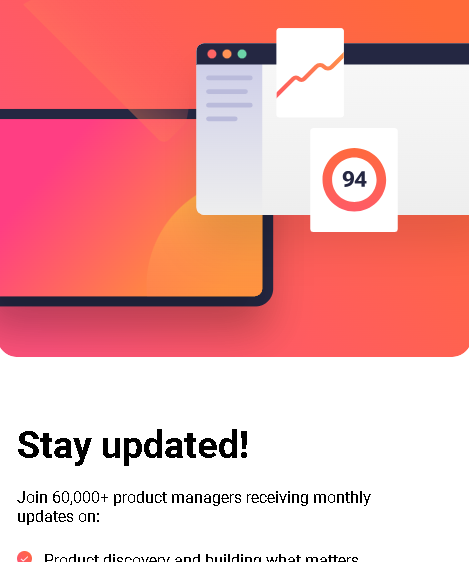
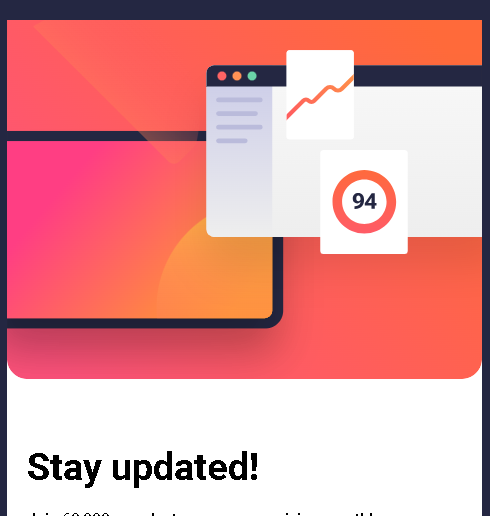
Fixed padding and border radius on cards

diff --git a/style.css b/style.css
@@ -1,4 +1,4 @@
-@import url('https://fonts.googleapis.com/css2?family=Montserrat:wght@300;400;700&display=swap');
+@import url('https://fonts.googleapis.com/css2?family=Montserrat:wght@300;400;500;700&display=swap');
 
 * {
    margin: 0;
@@ -146,7 +146,7 @@ li a:hover {
    align-items: center;
    justify-content: center;
    margin: 20px;
-   color: var(--mid-blue);
+   color: var(--dark-blue);
 }
 
 hr {
@@ -176,8 +176,6 @@ hr {
    background-image: url(images/huddle.png);
    background-size: 100%;
    background-repeat: no-repeat;
-   /* background-size: cover; */
-   /* background-position: right; */
 }
 .base-project {
    width: 400px;
@@ -190,7 +188,6 @@ hr {
    background-image: url(images/base-apprl.png);
    background-size: 100%;
    background-repeat: no-repeat;
-   /* background-position: center; */
 }
 
 .newsletter-project {
@@ -204,7 +201,6 @@ hr {
    background-image: url(images/newsletter.png);
    background-size: cover;
    background-repeat: no-repeat;
-   background-position-y: 0px;
 }
 /* Projects Row Two */
 .fylo-project {
@@ -219,7 +215,6 @@ hr {
    background-size: 100%;
    background-repeat: no-repeat;
    background-size: cover;
-   /* background-position: right; */
 }
 .cc-details-project {
    width: 400px;
@@ -232,7 +227,6 @@ hr {
    background-image: url(images/cc-details.png);
    background-size: cover;
    background-repeat: no-repeat;
-   /* background-position: center; */
 }
 
 .time-tracker-project {
@@ -246,7 +240,6 @@ hr {
    background-image: url(images/time-tracker.png);
    background-size: cover;
    background-repeat: no-repeat;
-   /* background-position-y: 0px; */
 }
 
 /* Row Three */
@@ -262,7 +255,6 @@ hr {
    background-size: 100%;
    background-repeat: no-repeat;
    background-size: cover;
-   /* background-position: right; */
 }
 .four-card-project {
    width: 400px;
@@ -275,7 +267,6 @@ hr {
    background-image: url(images/four-card.png);
    background-size: cover;
    background-repeat: no-repeat;
-   /* background-position: center; */
 }
 
 .clipboard-project {
@@ -294,33 +285,38 @@ hr {
 
 .text-container {
    position: absolute;
-   height: 75px;
+   height: 74px;
    width: 100%;
+   text-align: center;
    z-index: 2;
    left: 0;
    bottom: 0;
-   background-color: #fff;
+   background-color: #ffffff;
    overflow: hidden;
+   border-bottom-right-radius: 5px;
+   border-bottom-left-radius: 5px;
 }
 
 .text-container:hover {
-   height: 250px;
+   height: 270px;
 }
 
 .name {
-   margin: 12px 10px 5px;
-   color: var(--dark-blue);
-   font-size: 2rem;
+   margin: 20px 10px 5px;
+   color: var(--mid-blue);
+   font-size: 1.8rem;
    font-weight: 600;
 }
 
 .content {
-   padding: 5px;
-   color: var(--mid-blue);
+   padding: 10px;
+   color: var(--dark-blue);
+   font-size: 1rem;
+   font-weight: 600;
 }
 
 .button {
-   border: 3px solid var(--blue-text);
+   border: 2px solid var(--dark-blue);
    width: 210px;
    box-shadow: -15px 7px 30px rgba(0, 0, 0, 0.2);
    padding: 15px;
@@ -329,6 +325,11 @@ hr {
    margin: 18px auto;
    display: flex;
    justify-content: center;
+   background-color: white;
+}
+
+h3 {
+   color: var(--mid-blue);
 }
 
 /* ABOUT CONTAINER */
@@ -365,7 +366,9 @@ hr {
    font-size: 1.4rem;
 }
 
-
+strong {
+   color: var(--mid-blue);
+}
 
 /*  SOCIAL */
 .social-icons {
@@ -449,6 +452,7 @@ hr {
       font-size: 1.4rem;
       text-align: center;
       margin-bottom: 20px;
+      margin-top: 20px;
    }
 
    .store-project {
